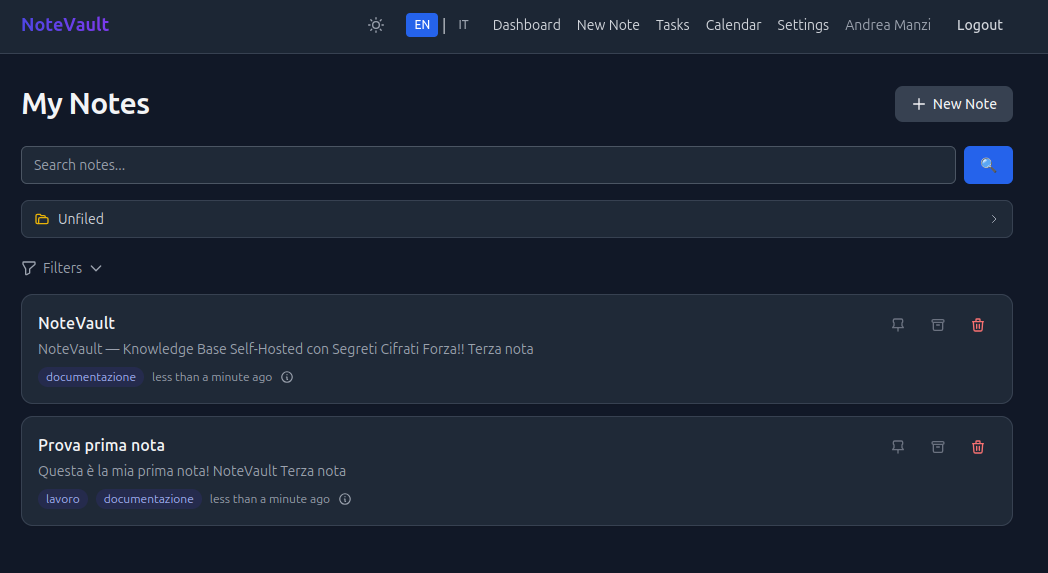
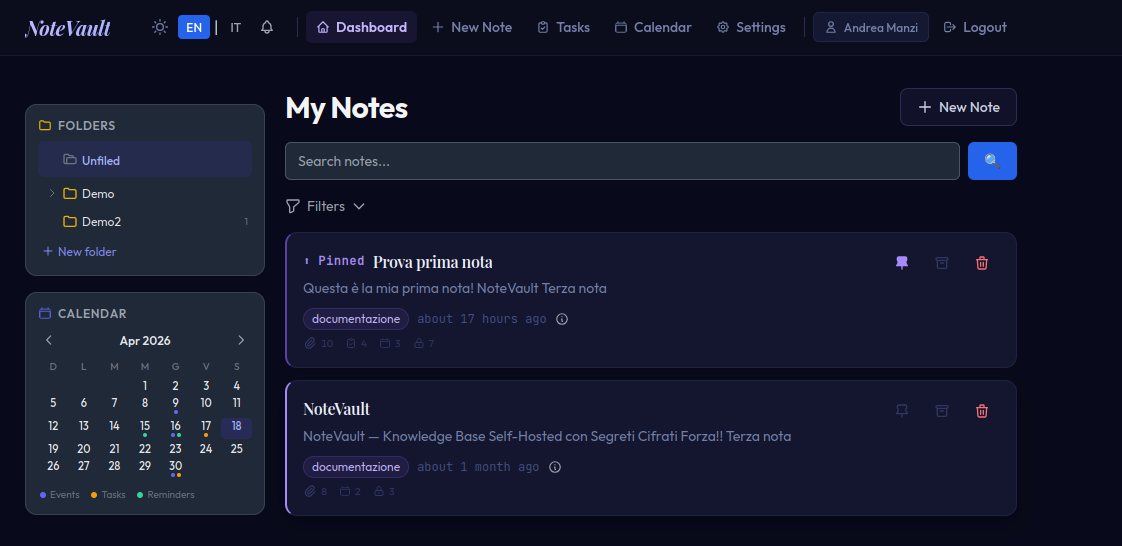
fix: bump pytest-asyncio to 0.23.8 and update READMEs
- pytest-asyncio 0.23.3 + pytest 8.3.5 causes INTERNALERROR in CI
  ('Package' object has no attribute 'obj'); 0.23.8 fixes it within
  the same 0.23.x API (no asyncio_mode breaking changes)
- README.md and README.it.md: update to PostgreSQL 17 / Node 22 /
  Python 3.12; add Bookmarks, Technical Fields, Notifications sections;
  Tasks → Tasks & Reminders with reminder info; Calendar: recurrence
  and reminders; Architecture diagram updated; API table extended
- Updated dashboard and calendar screenshots

diff --git a/README.it.md b/README.it.md
@@ -3,7 +3,7 @@
 ![Licenza: MIT](https://img.shields.io/badge/Licenza-MIT-blue.svg)
 ![Backend: FastAPI](https://img.shields.io/badge/Backend-FastAPI-009688.svg)
 ![Frontend: Next.js 14](https://img.shields.io/badge/Frontend-Next.js%2014-black.svg)
-![Database: PostgreSQL 15](https://img.shields.io/badge/Database-PostgreSQL%2015-336791.svg)
+![Database: PostgreSQL 17](https://img.shields.io/badge/Database-PostgreSQL%2017-336791.svg)
 ![Cifratura: AES-256-GCM](https://img.shields.io/badge/Cifratura-AES--256--GCM-critical.svg)
 ![Docker Hub](https://img.shields.io/badge/Docker%20Hub-manzolo%2Fnotevault-blue.svg)
 [![Buy Me a Coffee](https://img.shields.io/badge/Buy%20me%20a%20coffee-☕-yellow.svg)](https://buymeacoffee.com/manzolo)
@@ -21,8 +21,11 @@ NoteVault è una **knowledge base self-hosted e multi-utente** che unisce un edi
   - [Cartelle e Organizzazione](#cartelle-e-organizzazione)
   - [Ricerca Full-Text](#ricerca-full-text)
   - [Allegati](#allegati)
-  - [Task](#task)
+  - [Task e Promemoria](#task-e-promemoria)
   - [Calendario ed Eventi](#calendario-ed-eventi)
+  - [Segnalibri](#segnalibri)
+  - [Campi Tecnici](#campi-tecnici)
+  - [Notifiche](#notifiche)
   - [Wiki-link](#wiki-link)
   - [Condivisione Note](#condivisione-note)
   - [Cassaforte Segreti Cifrata](#cassaforte-segreti-cifrata)
@@ -44,10 +47,13 @@ NoteVault è una **knowledge base self-hosted e multi-utente** che unisce un edi
 | Area | Punti salienti |
 |---|---|
 | **Note** | Editor WYSIWYG (TipTap), salvataggio in Markdown, tag, cartelle, pin, archiviazione |
-| **Ricerca** | Full-text PostgreSQL su note, allegati e segnalibri |
+| **Ricerca** | Full-text PostgreSQL su note, allegati, segnalibri e task |
 | **Allegati** | Drag & drop, incolla (Ctrl+V), ZIP (anche protetti da password), EML, anteprima inline |
-| **Task** | Checklist inline per nota + pagina task globale |
-| **Calendario** | Eventi con data/ora, multi-giorno, file allegati; vista calendario mensile |
+| **Task** | Checklist inline per nota + pagina task globale, scadenze, riordinamento drag, promemoria |
+| **Calendario** | Eventi con regole di ricorrenza, multi-giorno, file allegati, promemoria; vista calendario mensile |
+| **Segnalibri** | Segnalibri URL per nota con titolo/descrizione, archivio, drag-to-reorder; segnalibri virtuali da segreti/eventi |
+| **Campi Tecnici** | Campi strutturati chiave→valore raggruppati per categoria; sotto-campi: data, link, prezzo, nota, immagine |
+| **Notifiche** | Campanella in-app per promemoria task/eventi; posticipa con durata preimpostata o personalizzata |
 | **Filtri** | Tag, intervallo date, ricorsivo nelle sottocartelle, solo in evidenza, solo archiviate |
 | **Wiki-link** | Link bidirezionali `[[Titolo nota]]` con autocompletamento |
 | **Condivisione** | Link pubblici o ristretti per utente, granularità per sezione |
@@ -113,6 +119,7 @@ La barra di ricerca interroga simultaneamente tutti i contenuti tramite **Postgr
 - Titoli e testo del corpo delle note
 - Testo estratto dagli allegati (PDF, testo, Markdown…)
 - Titoli, URL e descrizioni dei segnalibri
+- Testo dei task
 
 Quando una corrispondenza è trovata **all'interno di un allegato**, il nome del file appare come chip cliccabile nella card del risultato. Cliccandolo si apre il file inline senza lasciare la pagina di ricerca.
 
@@ -145,11 +152,13 @@ Gli allegati sono raggruppati per tipo (immagini, PDF, documenti, fogli di calco
 
 ---
 
-### Task
+### Task e Promemoria
 
 ![Task](docs/screenshots/tasks.png)
 
 Ogni nota ha una **lista task inline**: aggiungi voci, spuntale, riordina trascinando, imposta scadenze opzionali. Una **pagina Task globale** raccoglie tutte le attività di tutte le note con filtro Da fare / Completate / Tutte.
+
+I task supportano i **promemoria**: imposta uno o più avvisi prima della scadenza, recapitati tramite notifica in-app, Telegram o email. Ogni task può avere fino a 5 promemoria con intervalli preimpostati (15 min, 1 h, 1 giorno, 1 settimana) o una durata completamente personalizzata.
 
 ---
 
@@ -160,6 +169,30 @@ Ogni nota ha una **lista task inline**: aggiungi voci, spuntale, riordina trasci
 Le note possono avere **eventi** con data/ora di inizio, fine opzionale, URL (Google Meet, Zoom…) e file allegati. Tutti gli eventi appaiono in una **vista calendario mensile** insieme ai task con scadenza. Gli eventi multi-giorno si estendono su più colonne.
 
 Il filtro date della dashboard trova le note i cui eventi ricadono nell'intervallo selezionato — non solo la data di creazione della nota.
+
+Gli eventi supportano anche **regole di ricorrenza** (giornaliera, settimanale, mensile, annuale con limiti UNTIL/COUNT opzionali) e **promemoria** con la stessa consegna multicanale dei task.
+
+---
+
+### Segnalibri
+
+Ogni nota ha un **pannello segnalibri** per salvare URL correlati con titolo e descrizione opzionali. I segnalibri supportano drag-to-reorder, archiviazione e indicizzazione full-text.
+
+I **segnalibri virtuali** vengono derivati automaticamente dai segreti e dagli eventi che contengono un URL — appaiono come voci di sola lettura nel pannello segnalibri con un badge sorgente (ambra per i segreti, blu per gli eventi), mantenendo tutti i link rilevanti in un unico posto senza duplicazioni.
+
+---
+
+### Campi Tecnici
+
+Ogni nota può avere **campi tecnici strutturati** — coppie chiave → valore raggruppate in categorie con nome. Ogni campo supporta sotto-campi opzionali: una data, un link URL, un prezzo, una nota e un'immagine (incolla dagli appunti o sfoglia). I campi sono ideali per memorizzare dati strutturati come specifiche di prodotto, parametri di configurazione o metadati di ricerca.
+
+---
+
+### Notifiche
+
+Un'**icona campanella** nella navigazione superiore mostra le notifiche in-app non lette per i promemoria di task ed eventi. Cliccando una notifica si naviga direttamente alla nota pertinente.
+
+Le notifiche possono essere **posticipate** — scegli un preset (10 min, 30 min, 1 h, 3 h, 8 h, 1 giorno, 1 settimana) e la notifica scompare fino alla scadenza del posticipo.
 
 ---
 
@@ -299,19 +332,20 @@ Tutte le operazioni quotidiane sono disponibili come target Make. Esegui `make h
 └───────────────────────────┬─────────────────────────────┘
                             │ HTTP (via reverse proxy)
 ┌───────────────────────────▼─────────────────────────────┐
-│          Frontend  ·  Next.js 14  ·  :3000              │
+│          Frontend  ·  Next.js 14  ·  Node 22  ·  :3000  │
 │          App Router · TypeScript · Tailwind CSS         │
 │          next-intl (en / it) · rewrite /api/* → backend │
 └───────────────────────────┬─────────────────────────────┘
                             │ REST API (interna)
 ┌───────────────────────────▼─────────────────────────────┐
-│          Backend  ·  FastAPI  ·  :8000                  │
+│          Backend  ·  FastAPI  ·  Python 3.12  ·  :8000  │
 │          SQLAlchemy async · Migrazioni Alembic          │
 │          Cifratura AES-256-GCM · bcrypt 12 iterazioni   │
+│          APScheduler (consegna promemoria)              │
 └────────────┬──────────────────────────┬─────────────────┘
              │                          │
 ┌────────────▼───────────┐  ┌──────────▼──────────────────┐
-│  PostgreSQL 15  :5432  │  │  Redis 7        :6379        │
+│  PostgreSQL 17  :5432  │  │  Redis 7        :6379        │
 │  tsvector + indice GIN │  │  Rate limiting · sessioni    │
 └────────────────────────┘  └─────────────────────────────┘
 ```
@@ -354,16 +388,21 @@ L'API REST è servita da FastAPI su `http://localhost:8000`. La documentazione i
 
 | Gruppo endpoint | Percorso base | Descrizione |
 |---|---|---|
-| Autenticazione | `/api/auth` | Registrazione, accesso, verifica TOTP |
+| Autenticazione | `/api/auth` | Registrazione, accesso, verifica TOTP, configurazione 2FA |
 | Note | `/api/notes` | CRUD, pin, archivio, resolve wiki-link, backlink |
 | Tag | `/api/tags` | Creazione, elenco, assegnazione tag |
 | Categorie | `/api/categories` | CRUD cartelle |
-| Ricerca | `/api/search` | Ricerca full-text con paginazione |
+| Ricerca | `/api/search` | Ricerca full-text su note, allegati, segnalibri, task |
 | Allegati | `/api/notes/{id}/attachments` | Upload, stream, anteprima ZIP/EML, eliminazione |
-| Segnalibri | `/api/notes/{id}/bookmarks` | CRUD segnalibri URL |
-| Segreti | `/api/secrets` | CRUD, rivelazione, seed TOTP |
-| Task | `/api/tasks` | Task per nota + lista task globale |
-| Eventi | `/api/notes/{id}/events` | CRUD eventi calendario |
+| Segnalibri | `/api/notes/{id}/bookmarks` | CRUD, archivio, ripristino, riordinamento |
+| Segreti | `/api/secrets` | CRUD, rivelazione, copia silenziosa, seed TOTP |
+| Task | `/api/tasks` | Task per nota + lista task globale, riordinamento, archivio |
+| Promemoria task | `/api/tasks/{id}/reminders` | CRUD per i promemoria del singolo task |
+| Eventi | `/api/notes/{id}/events` | CRUD eventi calendario con ricorrenza |
+| Promemoria eventi | `/api/events/{id}/reminders` | CRUD per i promemoria del singolo evento |
+| Campi tecnici | `/api/notes/{id}/fields` | CRUD, riordinamento per campi chiave→valore strutturati |
+| Date campi | `/api/field-dates` | Aggregazione calendario dei campi di tipo data |
+| Notifiche | `/api/notifications` | Elenco, segna come letto, posticipa |
 | Condivisione | `/api/notes/{id}/share` | Creazione/revoca token; vista pubblica |
 
 Tutti gli endpoint protetti richiedono un'intestazione `Authorization: Bearer <token>`.

diff --git a/README.md b/README.md
@@ -3,7 +3,7 @@
 ![License: MIT](https://img.shields.io/badge/License-MIT-blue.svg)
 ![Backend: FastAPI](https://img.shields.io/badge/Backend-FastAPI-009688.svg)
 ![Frontend: Next.js 14](https://img.shields.io/badge/Frontend-Next.js%2014-black.svg)
-![Database: PostgreSQL 15](https://img.shields.io/badge/Database-PostgreSQL%2015-336791.svg)
+![Database: PostgreSQL 17](https://img.shields.io/badge/Database-PostgreSQL%2017-336791.svg)
 ![Encryption: AES-256-GCM](https://img.shields.io/badge/Encryption-AES--256--GCM-critical.svg)
 ![Docker Hub](https://img.shields.io/badge/Docker%20Hub-manzolo%2Fnotevault-blue.svg)
 [![Buy Me a Coffee](https://img.shields.io/badge/Buy%20me%20a%20coffee-☕-yellow.svg)](https://buymeacoffee.com/manzolo)
@@ -21,8 +21,11 @@ NoteVault is a **self-hosted, multi-user knowledge base** that combines a WYSIWY
   - [Folders & Organisation](#folders--organisation)
   - [Full-Text Search](#full-text-search)
   - [Attachments](#attachments)
-  - [Tasks](#tasks)
+  - [Tasks & Reminders](#tasks--reminders)
   - [Calendar & Events](#calendar--events)
+  - [Bookmarks](#bookmarks)
+  - [Technical Fields](#technical-fields)
+  - [Notifications](#notifications)
   - [Wiki-links](#wiki-links)
   - [Note Sharing](#note-sharing)
   - [Encrypted Secrets Vault](#encrypted-secrets-vault)
@@ -44,10 +47,13 @@ NoteVault is a **self-hosted, multi-user knowledge base** that combines a WYSIWY
 | Area | Highlights |
 |---|---|
 | **Notes** | WYSIWYG editor (TipTap), Markdown storage, tags, folders, pin, archive |
-| **Search** | PostgreSQL full-text search across notes, attachments, bookmarks |
+| **Search** | PostgreSQL full-text search across notes, attachments, bookmarks, tasks |
 | **Attachments** | Drag & drop, paste (Ctrl+V), ZIP (incl. password-protected), EML, inline preview |
-| **Tasks** | Inline checklist per note + global tasks page |
-| **Calendar** | Events with date/time, multi-day, attached files; monthly calendar view |
+| **Tasks** | Inline checklist per note + global tasks page, due dates, drag-to-reorder, reminders |
+| **Calendar** | Events with recurrence rules, multi-day, attached files, reminders; monthly calendar view |
+| **Bookmarks** | Per-note URL bookmarks with title/description, archive, drag-to-reorder; virtual bookmarks from secrets/events |
+| **Technical Fields** | Structured key→value fields grouped by category; sub-fields: date, link, price, note, image |
+| **Notifications** | In-app bell for task/event reminders; snooze with preset or custom duration |
 | **Filters** | Tag, date range, folder recursive, pinned-only, archived-only |
 | **Wiki-links** | `[[Note title]]` bidirectional links with autocomplete |
 | **Sharing** | Public or user-restricted share links, per-section granularity |
@@ -145,11 +151,13 @@ Attachments are grouped by type (images, PDFs, documents, spreadsheets, archives
 
 ---
 
-### Tasks
+### Tasks & Reminders
 
 ![Tasks](docs/screenshots/tasks.png)
 
 Each note has an **inline task list**: add items, check them off, reorder by drag, set optional due dates. A dedicated **global Tasks page** aggregates all tasks across all notes with a Todo / Done / All filter.
+
+Tasks support **reminders**: set one or more alerts before the due date, delivered via in-app notification, Telegram, or email. Each task can have up to 5 reminders with preset intervals (15 min, 1 h, 1 day, 1 week) or a fully custom duration.
 
 ---
 
@@ -160,6 +168,30 @@ Each note has an **inline task list**: add items, check them off, reorder by dra
 Notes can have **events** with a start datetime, optional end datetime, URL (Google Meet, Zoom…), and attached files. All events appear on a **monthly calendar view** alongside tasks that have due dates. Multi-day events span across days.
 
 The date filter on the dashboard matches notes whose events overlap the selected date range — not just the note creation date.
+
+Events also support **recurrence rules** (daily, weekly, monthly, yearly with optional UNTIL/COUNT limits) and **reminders** with the same multi-channel delivery as tasks.
+
+---
+
+### Bookmarks
+
+Each note has a **bookmarks panel** for saving related URLs with an optional title and description. Bookmarks support drag-to-reorder, archive, and full-text indexing.
+
+**Virtual bookmarks** are automatically derived from secrets and events that contain a URL — they appear as read-only entries in the bookmarks panel with a source badge (amber for secrets, blue for events), keeping all relevant links in one place without duplication.
+
+---
+
+### Technical Fields
+
+Each note can have **structured technical fields** — key → value pairs grouped into named categories. Each field supports optional sub-fields: a date, a URL link, a price, a note, and an image (paste from clipboard or browse). Fields are great for storing structured data like product specs, configuration parameters, or research metadata.
+
+---
+
+### Notifications
+
+A **bell icon** in the top navigation shows unread in-app notifications for task and event reminders. Clicking a notification navigates directly to the relevant note.
+
+Notifications can be **snoozed** — choose a preset (10 min, 30 min, 1 h, 3 h, 8 h, 1 day, 1 week) and the notification disappears until the snooze expires.
 
 ---
 
@@ -299,19 +331,20 @@ All day-to-day operations are available as Make targets. Run `make help` to see 
 └───────────────────────────┬─────────────────────────────┘
                             │ HTTP (via reverse proxy)
 ┌───────────────────────────▼─────────────────────────────┐
-│          Frontend  ·  Next.js 14  ·  :3000              │
+│          Frontend  ·  Next.js 14  ·  Node 22  ·  :3000  │
 │          App Router · TypeScript · Tailwind CSS         │
 │          next-intl (en / it) · /api/* rewrite → backend │
 └───────────────────────────┬─────────────────────────────┘
                             │ REST API (internal)
 ┌───────────────────────────▼─────────────────────────────┐
-│          Backend  ·  FastAPI  ·  :8000                  │
+│          Backend  ·  FastAPI  ·  Python 3.12  ·  :8000  │
 │          SQLAlchemy async · Alembic migrations          │
 │          AES-256-GCM encryption · bcrypt 12 rounds      │
+│          APScheduler (reminder delivery)                │
 └────────────┬──────────────────────────┬─────────────────┘
              │                          │
 ┌────────────▼───────────┐  ┌──────────▼──────────────────┐
-│  PostgreSQL 15  :5432  │  │  Redis 7        :6379        │
+│  PostgreSQL 17  :5432  │  │  Redis 7        :6379        │
 │  tsvector + GIN index  │  │  Rate limiting · sessions    │
 └────────────────────────┘  └─────────────────────────────┘
 ```
@@ -354,16 +387,21 @@ The REST API is served by FastAPI at `http://localhost:8000`. Interactive docume
 
 | Endpoint group | Base path | Description |
 |---|---|---|
-| Authentication | `/api/auth` | Register, login, TOTP verify |
+| Authentication | `/api/auth` | Register, login, TOTP verify, 2FA setup |
 | Notes | `/api/notes` | CRUD, pin, archive, wiki-link resolve, backlinks |
 | Tags | `/api/tags` | Create, list, assign tags |
 | Categories | `/api/categories` | Folder CRUD |
-| Search | `/api/search` | Full-text search with pagination |
+| Search | `/api/search` | Full-text search across notes, attachments, bookmarks, tasks |
 | Attachments | `/api/notes/{id}/attachments` | Upload, stream, ZIP/EML preview, delete |
-| Bookmarks | `/api/notes/{id}/bookmarks` | CRUD for URL bookmarks |
-| Secrets | `/api/secrets` | CRUD, reveal, TOTP seeds |
-| Tasks | `/api/tasks` | Per-note tasks + global task list |
-| Events | `/api/notes/{id}/events` | CRUD for calendar events |
+| Bookmarks | `/api/notes/{id}/bookmarks` | CRUD, archive, restore, reorder |
+| Secrets | `/api/secrets` | CRUD, reveal, copy-silent, TOTP seeds |
+| Tasks | `/api/tasks` | Per-note tasks + global task list, reorder, archive |
+| Task reminders | `/api/tasks/{id}/reminders` | CRUD for per-task reminder schedules |
+| Events | `/api/notes/{id}/events` | CRUD for calendar events with recurrence |
+| Event reminders | `/api/events/{id}/reminders` | CRUD for per-event reminder schedules |
+| Technical fields | `/api/notes/{id}/fields` | CRUD, reorder for structured key→value fields |
+| Field dates | `/api/field-dates` | Calendar aggregation of date-type fields |
+| Notifications | `/api/notifications` | List, mark-read, snooze |
 | Share | `/api/notes/{id}/share` | Create/revoke share tokens; public share view |
 
 All protected endpoints require an `Authorization: Bearer <token>` header.
